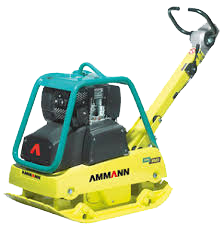
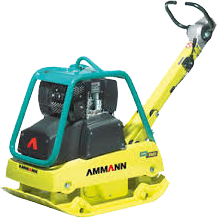
[MODIFIED] machine images sizes

Changed region(s): [[0.0276, 0.0, 1.0, 0.9818], [0.0, 0.8182, 0.47, 1.0]]

diff --git a/public/css/layout.css b/public/css/layout.css
@@ -76,9 +76,9 @@ img#comp{
 }
 #cssmenu > ul > li > a {
   color: #000000;
-  font-family: Verdana, 'Lucida Grande';
+  font-family: Trebuchet ms;
   font-weight: bolder;
-  font-size: 15px;
+  font-size: 17px;
   line-height: 70px;
   padding: 15px 20px;
   -webkit-transition: color .15s;
@@ -235,7 +235,11 @@ section#body{
 
 .ltb{
   cursor: pointer;
-  color:#999999;
+  color:#5B5B5B;
+}
+
+.ltb:hover{
+  color:#888888;
 }
 h1 > span:hover{
   color:#000000;

diff --git a/public/css/marca.css b/public/css/marca.css
@@ -14,6 +14,12 @@
 	display: block;
 }*/
 
+section#body > span{
+	font-family: trebuchet ms;
+	font-size: 14px;
+	top:15px;
+}
+
 ul#slideMaq > li > span{
 	display: block;
 	font-family: sans-serif;
